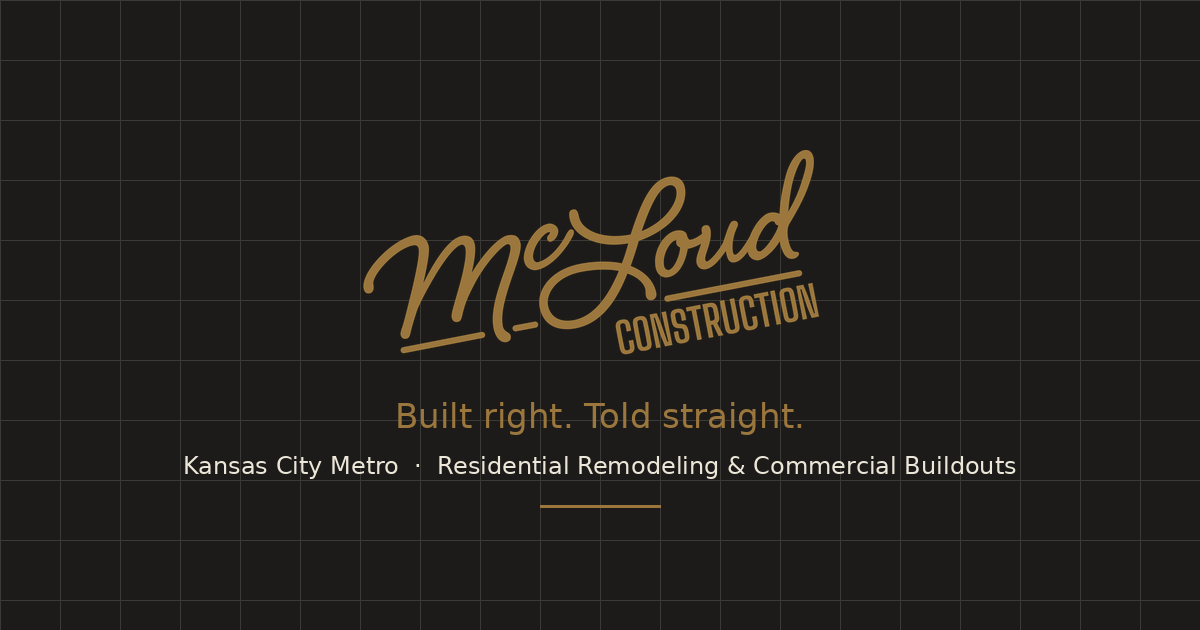
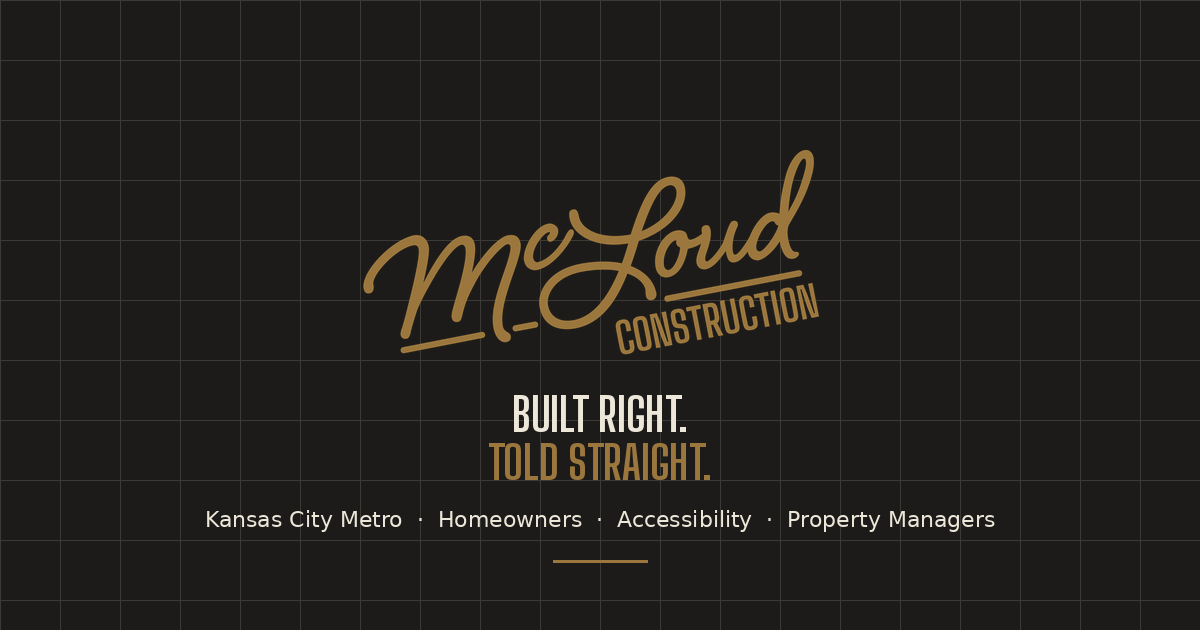
Add files via upload

Changed region(s): [[0.1542, 0.6032, 0.8633, 0.8444], [0.1542, 0.8143, 0.3392, 0.8444], [0.4625, 0.8746, 0.5242, 0.9048]]

diff --git a/app/page.js b/app/page.js
@@ -1,5 +1,6 @@
 import Link from 'next/link';
 import FinancingBanner from '@/components/FinancingBanner';
+import Tagline from '@/components/Tagline';
 import { CREDENTIALS, SERVICE_AREAS } from '@/lib/siteConfig';
 import { ACCESSIBILITY_SERVICES } from '@/lib/residentialServices';
 import { estimateHref, PROPERTY_MANAGER_NAV } from '@/lib/projectOptions';
@@ -80,9 +81,12 @@ export default function Home() {
               Kansas City Remodeling Contractor
             </h1>
             <p className="mt-6 max-w-lg font-body text-lg leading-relaxed text-paper/85 md:text-xl">
-              Kitchens, bathrooms, basements and accessibility remodels for homes across the KC metro.{' '}
-              <span className="font-display font-bold uppercase tracking-tight text-brass">Built right. Told straight.</span>
+              Kitchens, bathrooms, basements and accessibility remodels for homes across the KC metro.
             </p>
+            <Tagline
+              tone="dark"
+              className="mt-4 font-display text-2xl font-bold uppercase leading-tight tracking-tight md:text-3xl"
+            />
             <div className="mt-9 flex flex-wrap gap-3">
               <Link
                 href="/consultation?vertical=residential"
@@ -214,9 +218,11 @@ export default function Home() {
       <section className="border-t border-ink/10 bg-paper">
         <div className="mx-auto max-w-7xl px-6 py-24">
           <div className="font-mono text-xs uppercase tracking-[0.2em] text-rust">Why McLoud Construction</div>
-          <h2 className="mt-3 font-display text-4xl font-extrabold uppercase tracking-tight md:text-5xl">
-            Built Right. Told Straight.
-          </h2>
+          <Tagline
+            tone="light"
+            as="h2"
+            className="mt-3 font-display text-4xl font-extrabold uppercase leading-[0.95] tracking-tight md:text-5xl"
+          />
           <div className="tick-rule mt-4 mb-10" />
           <div className="grid gap-10 sm:grid-cols-2 lg:grid-cols-4">
             {WHY.map((item, i) => (
@@ -371,10 +377,17 @@ function TrustStamp({ children }) {
 }
 
 // Original elevation-style line drawing, the hero's signature visual,
-// standing in for photography we don't have and won't fake.
+// standing in for photography we don't have and won't fake. The three labels
+// sit below the ground line (not on the drawing) so they stay readable, and
+// each speaks to one kind of customer: the left door to accessibility, the
+// right door to property managers, and the full-width dimension to homeowners.
+// The top label follows the tagline rule in components/Tagline.js (dark
+// background: "Built Right." paper #EDE7DA, "Told Straight." brass #9B773D).
+const LABEL = { fontFamily: 'IBM Plex Mono', fontSize: 13, letterSpacing: 1, textAnchor: 'middle' };
+
 function ElevationDrawing() {
   return (
-    <svg viewBox="0 0 460 360" className="w-full text-paper/90" aria-hidden="true">
+    <svg viewBox="0 0 460 350" className="w-full text-paper/90" aria-hidden="true">
       <g fill="none" stroke="currentColor" strokeWidth="1.5">
         <path d="M40 260 L40 140 L230 40 L420 140 L420 260" />
         <path d="M40 260 L420 260" />
@@ -383,24 +396,30 @@ function ElevationDrawing() {
         <path d="M230 40 L230 260" strokeDasharray="3 4" opacity="0.4" />
       </g>
       <g stroke="#9B773D" strokeWidth="1">
-        <line x1="40" y1="290" x2="420" y2="290" />
-        <line x1="40" y1="284" x2="40" y2="296" />
-        <line x1="420" y1="284" x2="420" y2="296" />
+        {/* Leaders from each door down to its label */}
+        <line x1="120" y1="264" x2="120" y2="276" />
+        <line x1="335" y1="264" x2="335" y2="276" />
+        {/* Dimension line, broken in the middle for its label */}
+        <line x1="40" y1="322" x2="114" y2="322" />
+        <line x1="346" y1="322" x2="420" y2="322" />
+        <line x1="40" y1="316" x2="40" y2="328" />
+        <line x1="420" y1="316" x2="420" y2="328" />
         <line x1="40" y1="140" x2="20" y2="140" strokeDasharray="2 3" opacity="0.5" />
         <line x1="40" y1="40" x2="10" y2="40" />
         <line x1="10" y1="34" x2="10" y2="46" />
       </g>
-      <text x="230" y="308" textAnchor="middle" fill="#9B773D" fontFamily="IBM Plex Mono" fontSize="10" letterSpacing="1">
-        38&apos;-0&quot;
+      <text x="120" y="293" fill="#EDE7DA" {...LABEL}>
+        AGING IN PLACE
       </text>
-      <text x="120" y="215" textAnchor="middle" fill="currentColor" opacity="0.6" fontFamily="IBM Plex Mono" fontSize="9" letterSpacing="1">
-        WIDER DOORWAY
+      <text x="335" y="293" fill="#EDE7DA" {...LABEL}>
+        UNIT RENOVATIONS
       </text>
-      <text x="335" y="205" textAnchor="middle" fill="currentColor" opacity="0.6" fontFamily="IBM Plex Mono" fontSize="9" letterSpacing="1">
-        CURBLESS SHOWER
+      <text x="230" y="326" fill="#9B773D" {...LABEL}>
+        KITCHEN · BATH · BASEMENT
       </text>
-      <text x="230" y="30" textAnchor="middle" fill="#A8471F" fontFamily="IBM Plex Mono" fontSize="9" letterSpacing="1">
-        BUILT RIGHT. TOLD STRAIGHT.
+      <text x="230" y="0" fontFamily="IBM Plex Mono" fontSize="12" letterSpacing="1" textAnchor="middle">
+        <tspan x="230" dy="15" fill="#EDE7DA">BUILT RIGHT.</tspan>
+        <tspan x="230" dy="15" fill="#9B773D">TOLD STRAIGHT.</tspan>
       </text>
     </svg>
   );

diff --git a/components/Tagline.js b/components/Tagline.js
@@ -1,0 +1,27 @@
+// BRAND RULE: "Built Right. Told Straight."
+//
+// 1. The two parts are ALWAYS on separate lines (or the whole tagline sits on
+//    its own line with a break between the parts). Never run it inline after
+//    other text.
+// 2. Colors come from the palette in tailwind.config.js:
+//      On dark backgrounds:  "Built Right." paper #EDE7DA (white),  "Told Straight." brass #9B773D (tan)
+//      On light backgrounds: "Built Right." brass #9B773D (tan),    "Told Straight." ink #1C1B19 (black)
+//
+// Use this component anywhere the tagline appears on the page. The SVG version
+// in the homepage hero drawing (app/page.js, ElevationDrawing) follows the same
+// rule with the same hexes. Plain-text copies that cannot carry a line break or
+// color (structured data, image alt text, llms.txt) keep the words only.
+export const TAGLINE_COLORS = {
+  dark: { first: 'text-paper', second: 'text-brass' },
+  light: { first: 'text-brass', second: 'text-ink' },
+};
+
+export default function Tagline({ tone = 'dark', as: Tag = 'p', className = '' }) {
+  const colors = TAGLINE_COLORS[tone] || TAGLINE_COLORS.dark;
+  return (
+    <Tag className={className}>
+      <span className={`block ${colors.first}`}>Built Right.</span>
+      <span className={`block ${colors.second}`}>Told Straight.</span>
+    </Tag>
+  );
+}

diff --git a/components/Footer.js b/components/Footer.js
@@ -1,6 +1,7 @@
 import Link from 'next/link';
 import Image from 'next/image';
 import ObfuscatedEmail from './ObfuscatedEmail';
+import Tagline from './Tagline';
 import { SERVICE_AREAS, phoneDisplay, phoneHref } from '@/lib/siteConfig';
 import { HUBS, HOMEOWNER_NAV, ACCESSIBILITY_NAV, PROPERTY_MANAGER_NAV } from '@/lib/projectOptions';
 
@@ -22,6 +23,10 @@ export default function Footer() {
             <p className="mt-4 max-w-xs font-body text-sm leading-relaxed text-paper/70">
               Quality work, honest communication. Locally owned, serving the Kansas City metro.
             </p>
+            <Tagline
+              tone="dark"
+              className="mt-4 font-display text-xl font-bold uppercase leading-tight tracking-tight"
+            />
           </div>
 
           {MENUS.map(menu => (
